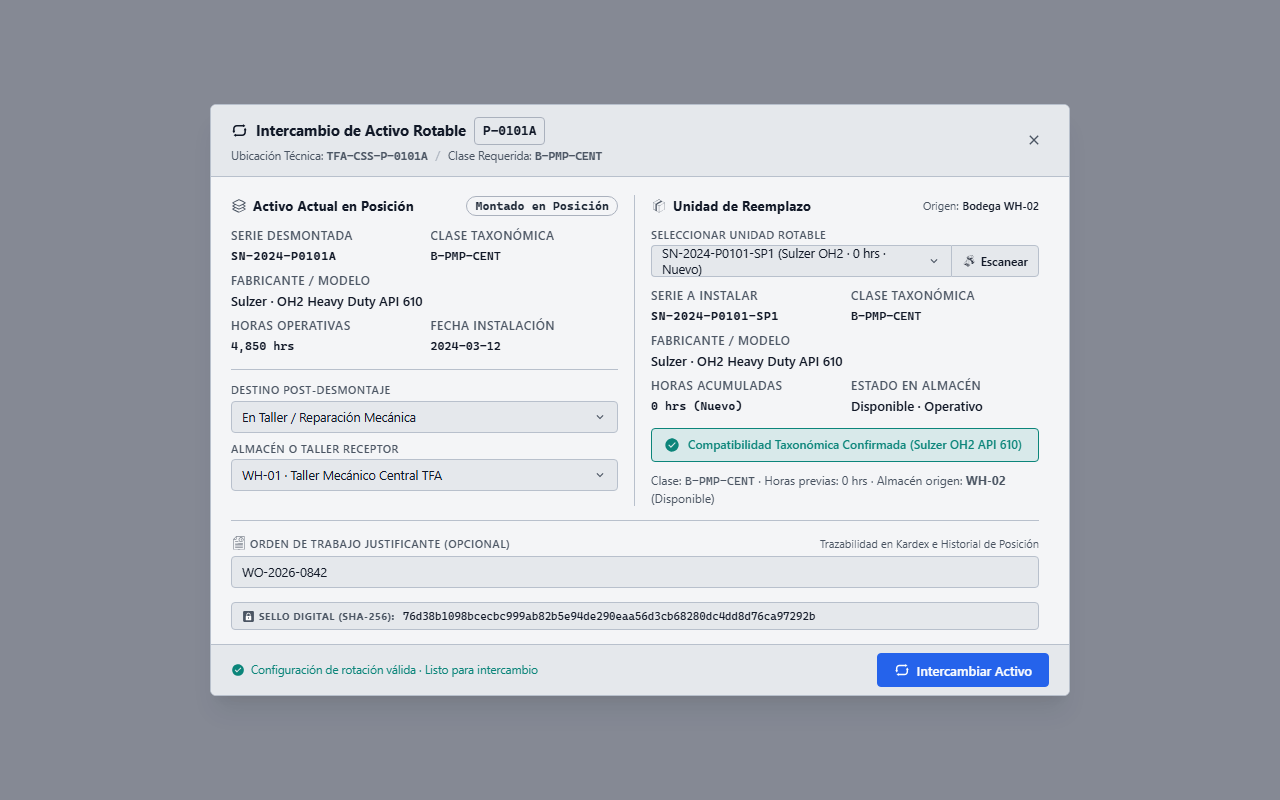
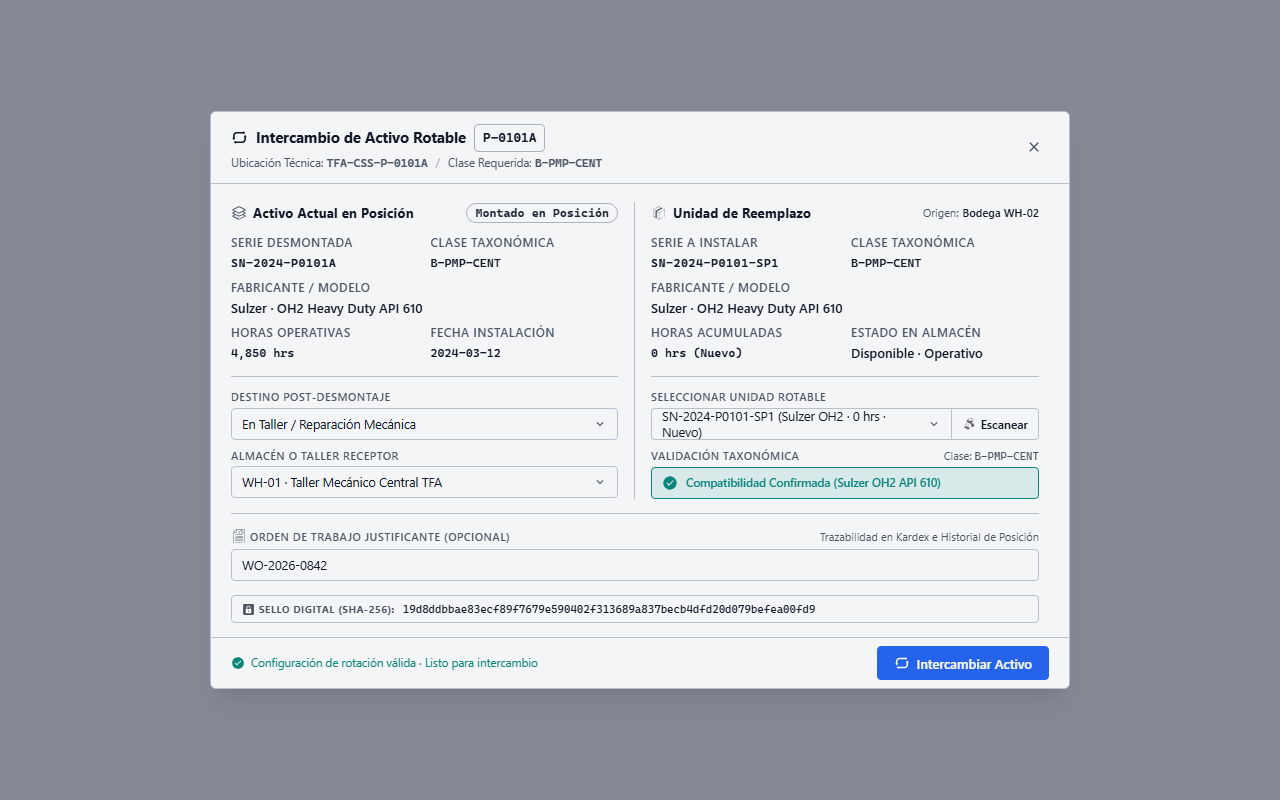
docs(ui-ux): align SCR-INV-025 captures with unified surface tokens and symmetrical grid

diff --git a/ui-ux/screens/inv/SCR-INV-025.md b/ui-ux/screens/inv/SCR-INV-025.md
@@ -54,14 +54,14 @@ status: Stable
 
 | ID | Control / Component | Visual Role / Content | Semantic Token | Architectural Role & Reference |
 | :--- | :--- | :--- | :--- | :--- |
-| `CMP-01` | Modal Container & Header | Modal shell & navigation header | Surface: `--dt-color-surface-card`<br>Border: `--dt-color-border-panel`<br>Elevation: `--dt-z-modal` | Hosts title ("Rotable Asset Swap"), Functional Location tag, Equipment Class badge, and dismissal control. Operates as a centered modal dialog across workstation and tablet portrait viewports. Detailed in §5.2 and §8. |
-| `CMP-02` | Dismounted Asset Card | Currently installed machine card | Surface: `--dt-color-surface-base`<br>Border: `--dt-color-border-subtle`<br>Radius: `--dt-radius-md` | Displays mounted asset details including Serial Number, Model, Operating Hours, and Installation Date. Hosts mandatory destination controls (`CMP-03`). Detailed in §5.1. |
-| `CMP-03` | Destination Status & Warehouse Controls | Status selector and warehouse picker | Surface: `--dt-color-surface-base`<br>Border: `--dt-color-border-subtle` | Dropdown pair capturing post-dismount destination status and target storage warehouse. Blocks submission if left unassigned. Detailed in §5.1, §5.3.2, and §7.2.3. |
-| `CMP-04` | Replacement Asset Card | Replacement rotable picker card | Surface: `--dt-color-surface-base`<br>Border: `--dt-color-border-subtle`<br>Radius: `--dt-radius-md` | Hosts replacement equipment selector, serial number display, optical scan trigger (`CMP-05`), and live taxonomic compatibility badge (`CMP-06`). Detailed in §5.1. |
-| `CMP-05` | Barcode / NFC Scan Trigger | Tactile camera/scanner button | Surface: `--dt-color-surface-raised`<br>Border: `--dt-color-border-subtle`<br>Touch Target: `--dt-touch-target-mobile` | Activates camera-based barcode scanning or Web NFC reader to instantly select the replacement unit by physical asset barcode tag. Detailed in §5.2.3 and §7.3. |
-| `CMP-06` | Taxonomic Compatibility Indicator | Real-time validation badge | Dynamic Surface: `--dt-color-state-success` or `--dt-color-alarm-critical` | Validates that replacement unit matches the exact `EquipmentClassId` of the Functional Location and is currently in warehouse storage status. Detailed in §5.3.1. |
-| `CMP-07` | Work Order Linkage Field | Optional justifying WO input | Surface: `--dt-color-surface-base`<br>Border: `--dt-color-border-subtle` | Searchable input linking the equipment swap transaction to a justifying work order. Detailed in §5.1. |
-| `CMP-08` | Cryptographic Audit Hash Strip | Chained SHA-256 preview strip | Surface: `--dt-color-surface-raised`<br>Font: `--dt-font-mono-data` | Displays real-time generated SHA-256 hash chaining payload, visualizing the immutable cryptographic audit record dispatched with the transaction. Detailed in §5.3.3. |
+| `CMP-01` | Modal Container & Header | Modal shell & navigation header | Surface: `--dt-color-surface-card`<br>Border: `--dt-color-border-subtle`<br>Elevation: `--dt-z-modal` | Hosts title ("Rotable Asset Swap"), Functional Location tag, Equipment Class badge, and dismissal control. Operates as a centered modal dialog across workstation and tablet portrait viewports. Detailed in §5.2 and §8. |
+| `CMP-02` | Dismounted Asset Card | Currently installed machine card | Surface: `--dt-color-surface-card`<br>Border: None<br>Radius: `--dt-radius-none` | Displays mounted asset details including Serial Number, Model, Operating Hours, and Installation Date in a 2-column key-value grid symmetrically aligned with `CMP-04`. Hosts mandatory destination controls (`CMP-03`). Detailed in §5.1. |
+| `CMP-03` | Destination Status & Warehouse Controls | Status selector and warehouse picker | Surface: `--dt-color-surface-card`<br>Border: `--dt-color-border-subtle` | Dropdown pair capturing post-dismount destination status and target storage warehouse. Blocks submission if left unassigned. Detailed in §5.1, §5.3.2, and §7.2.3. |
+| `CMP-04` | Replacement Asset Card | Replacement rotable picker card | Surface: `--dt-color-surface-card`<br>Border: None<br>Radius: `--dt-radius-none` | Displays replacement equipment specs (Serial Number, Model, Accumulated Hours, Warehouse Status) row-for-row aligned with `CMP-02`. Hosts replacement selector dropdown (`CMP-04`), optical scan trigger (`CMP-05`), and taxonomic compatibility badge (`CMP-06`). Detailed in §5.1. |
+| `CMP-05` | Barcode / NFC Scan Trigger | Tactile camera/scanner button | Surface: `--dt-color-surface-card`<br>Border: `--dt-color-border-subtle`<br>Touch Target: `--dt-touch-target-mobile` | Activates camera-based barcode scanning or Web NFC reader to instantly select the replacement unit by physical asset barcode tag. Docked with replacement dropdown in unified addon group. Detailed in §5.2.3 and §7.3. |
+| `CMP-06` | Taxonomic Compatibility Indicator | Real-time validation badge | Dynamic Surface: `--dt-color-surface-card` (neutral), `--dt-color-state-success` (compatible), or `--dt-color-alarm-critical` (incompatible) | Validates that replacement unit matches the exact `EquipmentClassId` of the Functional Location and is currently in warehouse storage status. Sized with fixed control height (32px) to prevent layout shifts. Detailed in §5.3.1. |
+| `CMP-07` | Work Order Linkage Field | Optional justifying WO input | Surface: `--dt-color-surface-card`<br>Border: `--dt-color-border-subtle` | Searchable input linking the equipment swap transaction to a justifying work order. Detailed in §5.1. |
+| `CMP-08` | Cryptographic Audit Hash Strip | Chained SHA-256 preview strip | Surface: `--dt-color-surface-card`<br>Font: `--dt-font-mono-data`<br>Border: `--dt-color-border-subtle` | Displays real-time generated SHA-256 hash chaining payload, visualizing the immutable cryptographic audit record dispatched with the transaction. Detailed in §5.3.3. |
 | `CMP-09` | Atomic Commit Action Button | Primary transactional confirm button | Surface: `--dt-color-state-info`<br>Disabled Surface: `--dt-color-state-disabled` | Primary action `[Confirm Asset Swap]`. Enforces single-commit atomic execution; disabled until all taxonomic and destination constraints are satisfied. Detailed in §5.3.4. |
 | `CMP-10` | Modal Close & Dismiss Action | Header close icon button and Escape shortcut | Surface: Transparent<br>Border: None | Safely dismisses the modal without committing changes, unblocking the host screen without altering database configuration or location links. Detailed in §5.2. |
 
@@ -380,8 +380,8 @@ public record AssetSwapCompletedEvent(
 
 | Viewport / Breakpoint | Layout Organization | Ergonomic Rules |
 | :--- | :--- | :--- |
-| **Desktop Workstation**<br>($\ge 1920\text{px}$, `--dt-breakpoint-xl`) | Centered modal dialog (sized by `--dt-layout-modal-width-desktop`, max-height `--dt-layout-modal-max-height`); dual-column horizontal split (`CMP-02`/`CMP-03` Dismounted Asset on the left, `CMP-04`/`CMP-05`/`CMP-06` Replacement Asset on the right, separated by a vertical hairline divider `--dt-color-border-subtle`), followed by full-width Work Order linkage (`CMP-07`), SHA-256 preview strip (`CMP-08`), and modal action footer (`CMP-09`). | Mouse click interaction; `Tab` key focus cycling; `Enter` to commit; `Escape` or header close icon (`CMP-10`) to dismiss. |
-| **Industrial Tablet Landscape**<br>($1280\text{px} - 1919\text{px}$, `--dt-breakpoint-lg`) | Centered modal container (sized by `--dt-layout-modal-width-desktop` / `--dt-layout-modal-width-tablet`); preserves the dual-column side-by-side comparison (`CMP-02` vs. `CMP-04`) with stacked 2-column Key-Top / Value-Bottom metadata cells so all `CMP-01`–`CMP-09` elements fit without vertical clipping. | Gloved touch targets governed by `--dt-touch-target-mobile` with `--dt-space-2` separation; prominent barcode scan trigger (`CMP-05`); header close icon (`CMP-10`) dismisses. |
+| **Desktop Workstation**<br>($\ge 1920\text{px}$, `--dt-breakpoint-xl`) | Centered modal dialog (sized by `--dt-layout-modal-width-desktop`, max-height `--dt-layout-modal-max-height`); dual-column horizontal split (`CMP-02` Dismounted Asset on the left, `CMP-04` Replacement Asset on the right, separated by a vertical hairline divider `--dt-color-border-subtle`). Metadata fields are row-for-row level-aligned (Serial vs. Serial, Model vs. Model, Hours vs. Hours). Dropdowns and validation badges (`CMP-03`, `CMP-05`, `CMP-06`) sit symmetrically below the metadata grids. Followed by full-width Work Order linkage (`CMP-07`), SHA-256 preview strip (`CMP-08`), and grounded modal footer (`CMP-09`). | Mouse click interaction; `Tab` key focus cycling; `Enter` to commit; `Escape` or header close icon (`CMP-10`) to dismiss. Fixed control heights eliminate content layout shifts (CLS). |
+| **Industrial Tablet Landscape**<br>($1280\text{px} - 1919\text{px}$, `--dt-breakpoint-lg`) | Centered modal container (sized by `--dt-layout-modal-width-desktop` / `--dt-layout-modal-width-tablet`); preserves the dual-column side-by-side comparison (`CMP-02` vs. `CMP-04`) with stacked 2-column Key-Top / Value-Bottom metadata cells so all `CMP-01`–`CMP-09` elements fit without vertical clipping or height shifts. | Gloved touch targets governed by `--dt-touch-target-mobile` with `--dt-space-2` separation; prominent barcode scan trigger (`CMP-05`); header close icon (`CMP-10`) dismisses. |
 | **Industrial Tablet Portrait**<br>($768\text{px} - 1279\text{px}$, `--dt-breakpoint-md`) | Centered modal container (sized by `--dt-layout-modal-width-tablet`, max-height `--dt-layout-modal-max-height`); single-column vertical stack (`CMP-02`/`CMP-03` stacked above `CMP-04`/`CMP-06`, `CMP-07`, and `CMP-08`) separated by edge-to-edge horizontal dividers (`--dt-color-border-subtle`). | Gloved touch targets governed by `--dt-touch-target-mobile` with `--dt-space-2` separation; sticky modal footer (`CMP-09` `[Confirm Asset Swap]`) permanently visible; header close icon (`CMP-10`) cancels. |
 
 ---
